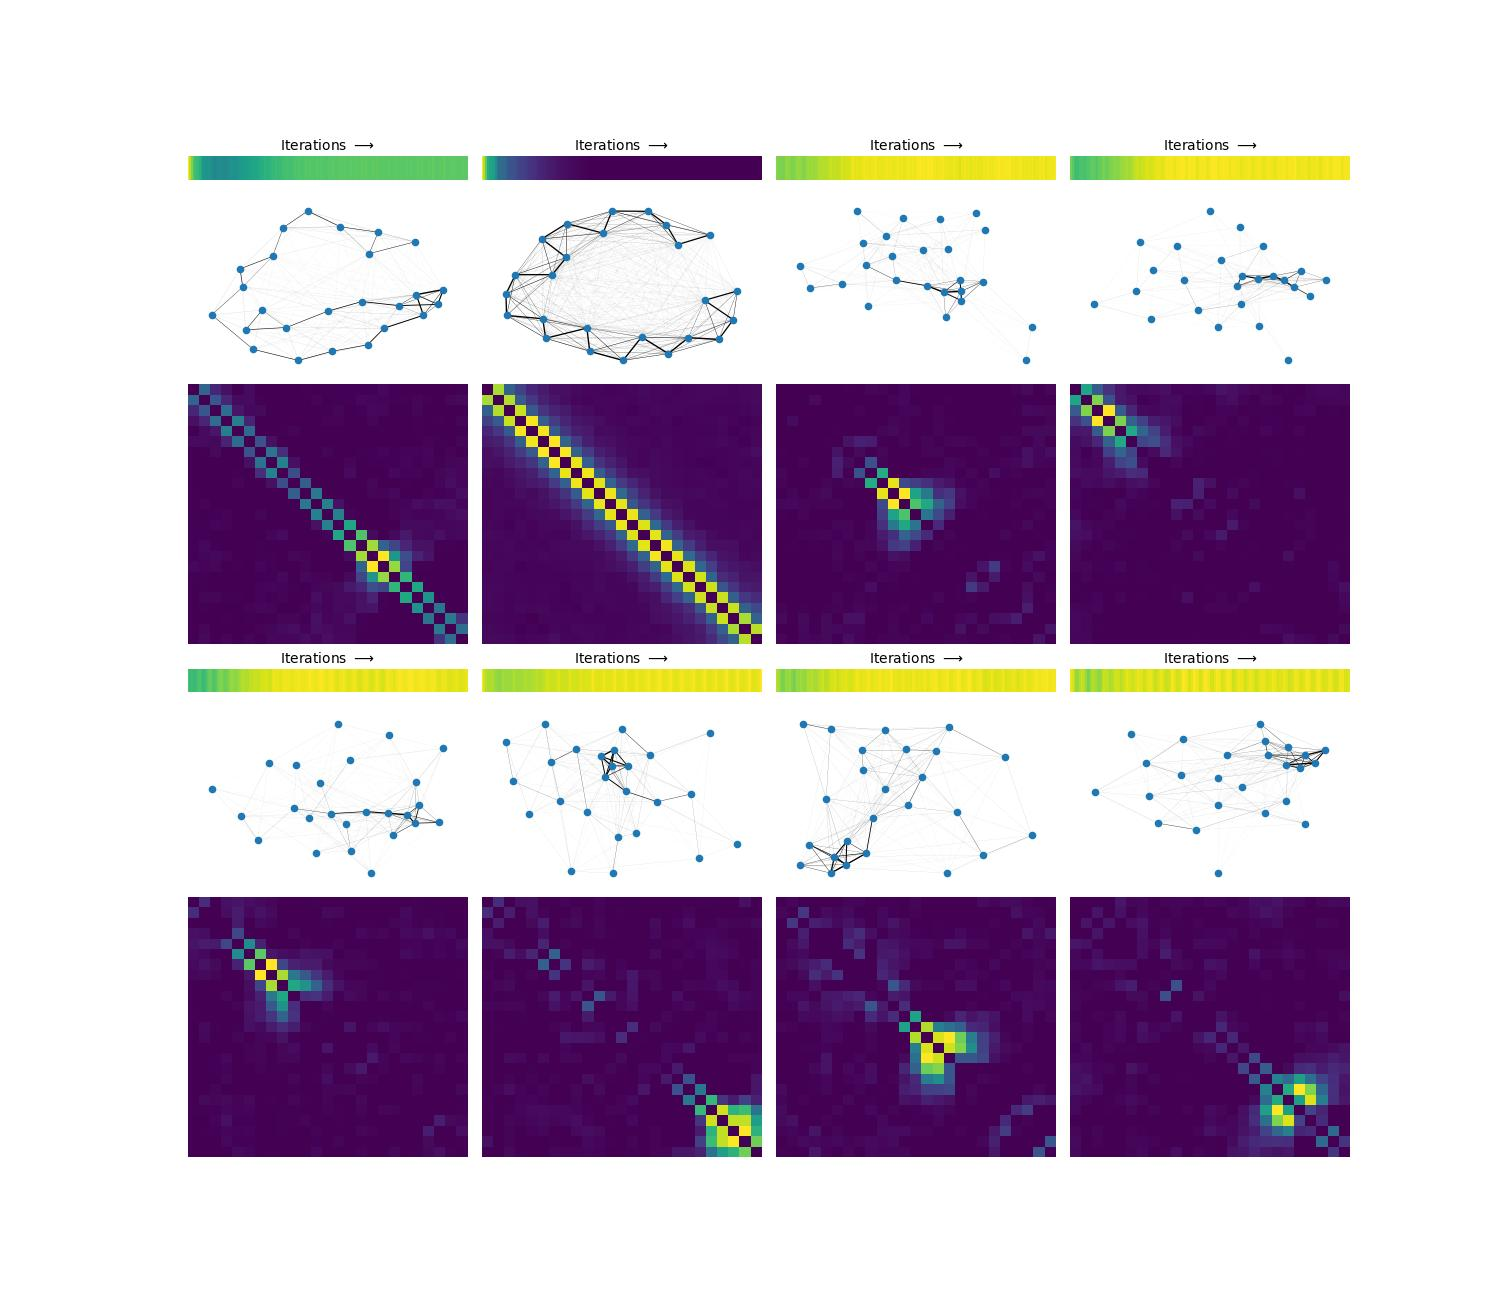
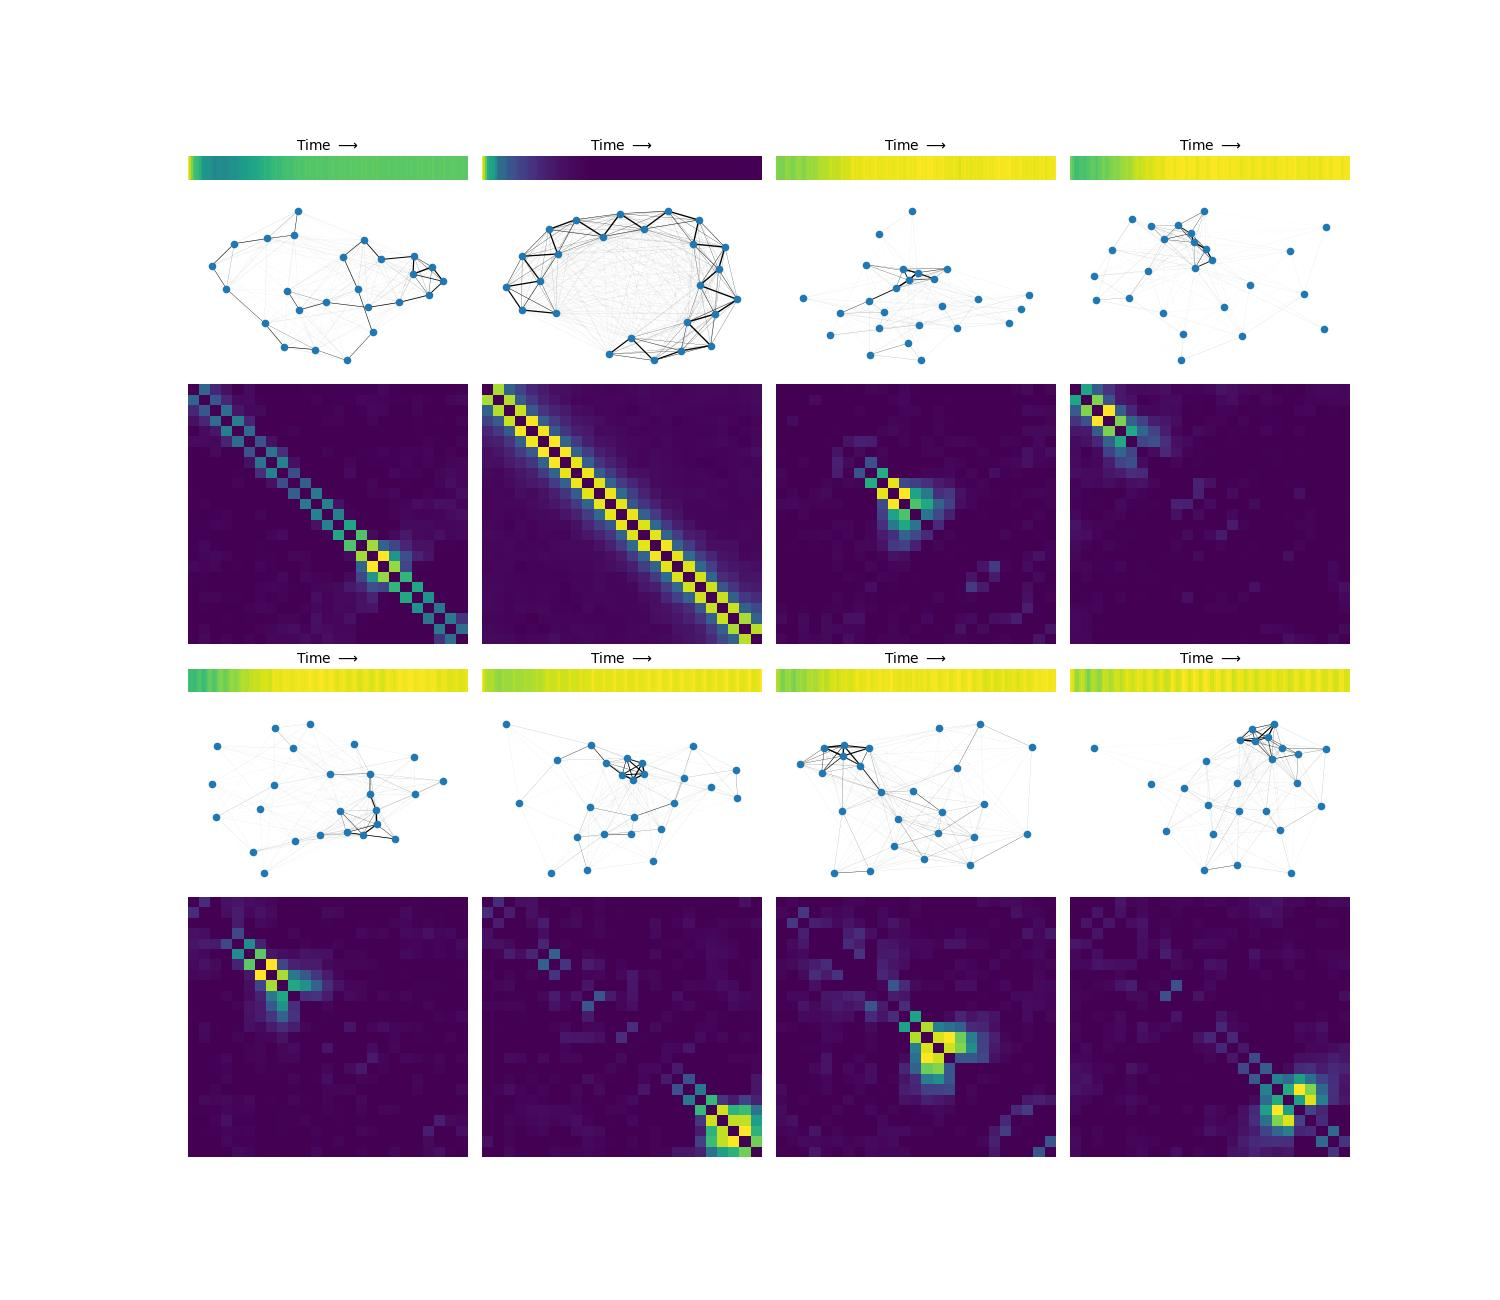
Modify plots

diff --git a/plotting/plot_factors.py b/plotting/plot_factors.py
@@ -102,7 +102,7 @@ def plot_CP(temporal_factors, graph_factors, R, retrieve_path):
             ax1.set_xticks([])
             ax1.set_yticks([])
             ax1.xaxis.set_label_position("top")
-            ax1.set_xlabel(r"Iterations $\longrightarrow$")
+            ax1.set_xlabel(r"Time $\longrightarrow$")
 
             ax2 = plt.subplot(sub_gs[1])
             nx.draw_spring(G, with_labels=False, node_size=20, width=weights, label="Graph", ax=ax2)
